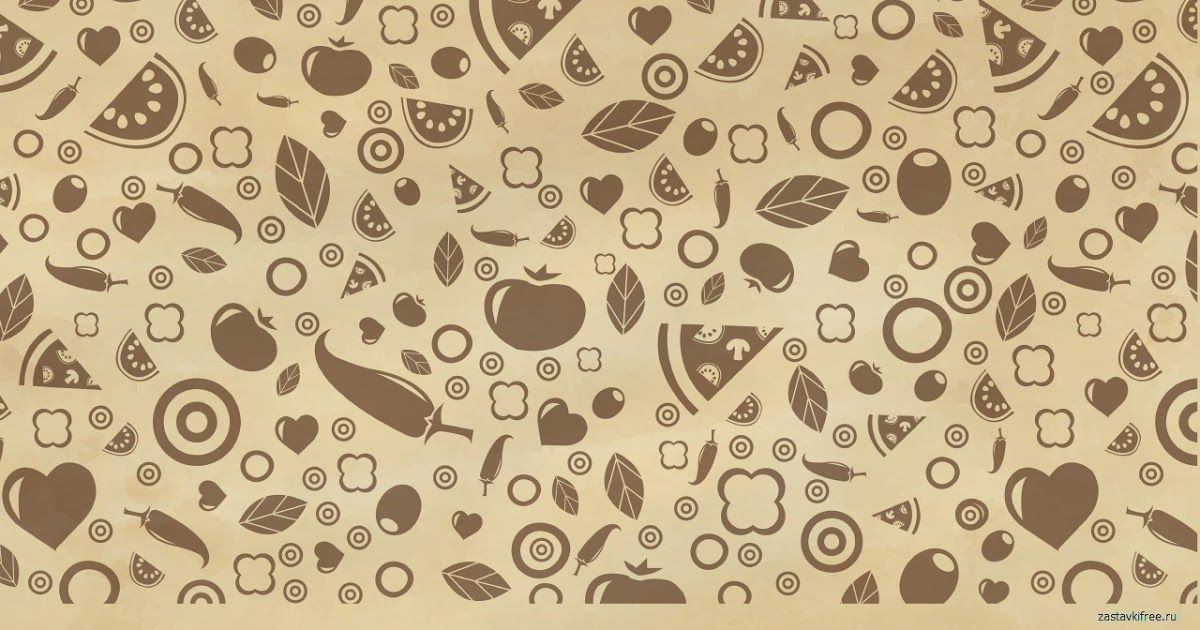
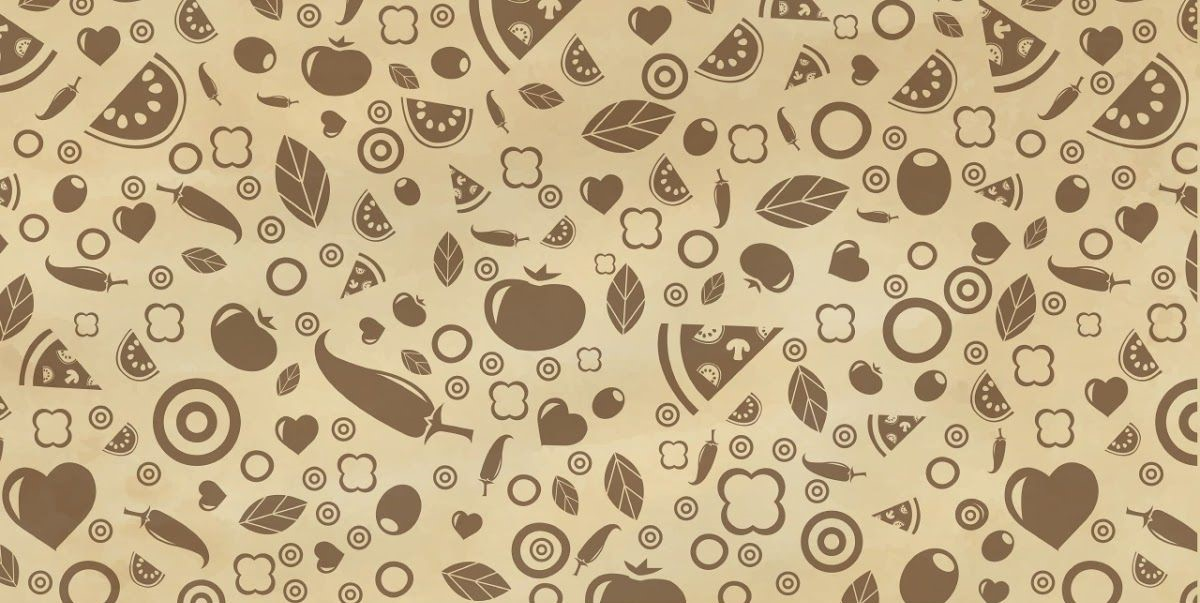
div style block

diff --git a/style.css b/style.css
@@ -3,9 +3,17 @@ body {
     background-image: url('img/food.jpg');
     background-size: 100%, 100%;
     background-attachment: fixed;
-    background-repeat: no-repeat;
+    background-repeat: repeat;
 
     font-family: Arial;
+
+    position:fixed;
+    padding:0;
+    margin:0;
+    top:0;
+    left:0;
+    width: 100%;
+    height: 100%;
 
   }
   
@@ -15,21 +23,19 @@ body {
 
   }
 
+
+
 .content{
 
-    position:fixed;
-    padding:0;
-    margin:0;
-    top:0;
-    left:0;
-    width: 100%;
-    height: 100%;
-}
-
-.form{
-
+    background-clip: content-box;
     padding: 10pt;
     background-color: #7C6144;
+    display: inline-block;
+    width: 50%;
+    position: absolute;
+    top: auto;
+    left: 25%;
+
 }
 
 .logo{
